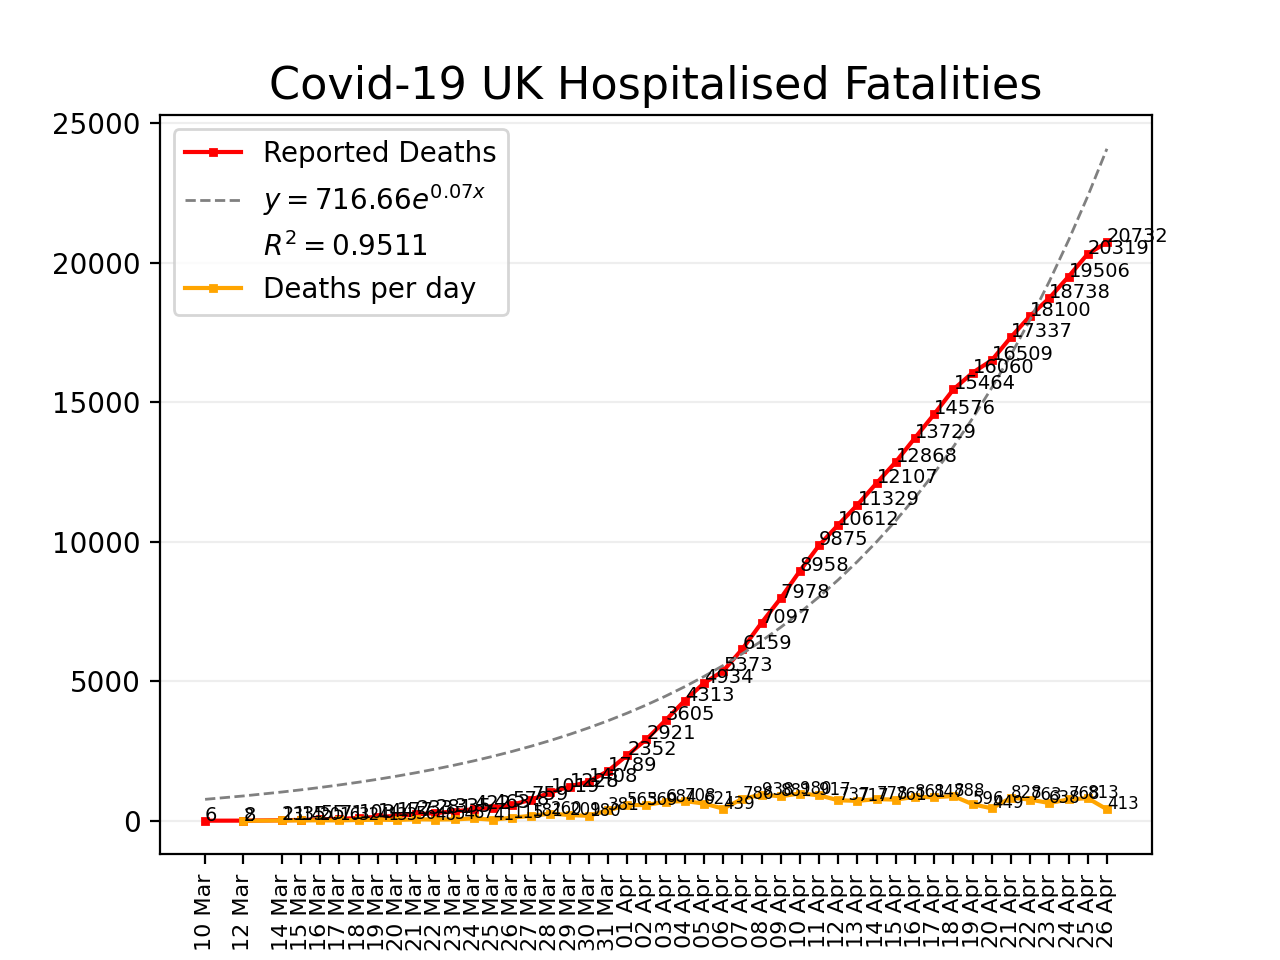
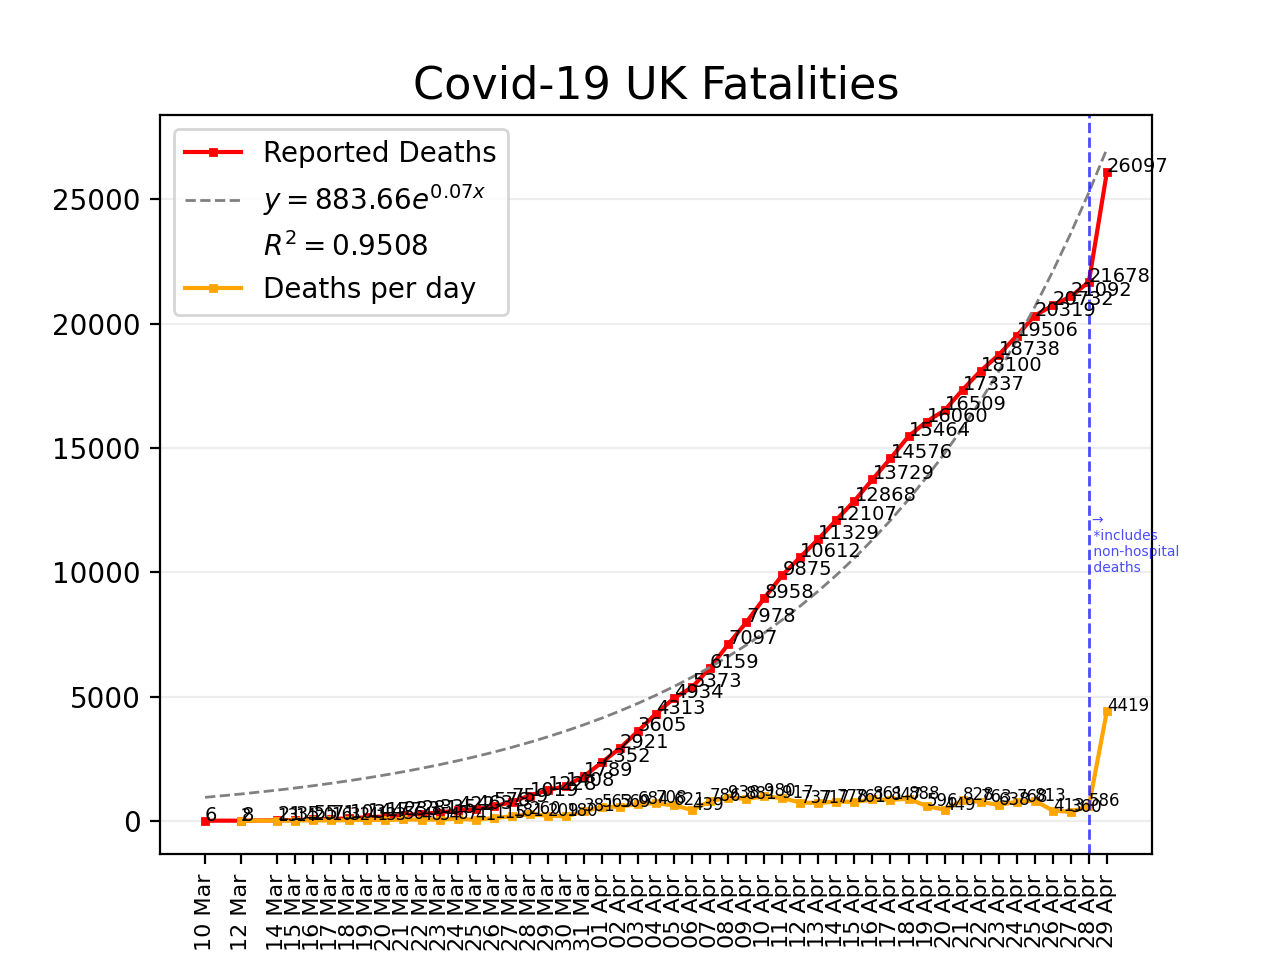
Adds data between 27 and 29 Apr
Updates graph to show information about non-hospital deaths

diff --git a/plot.py b/plot.py
@@ -9,7 +9,8 @@ y = np.array([
     281, 335, 422, 463, 578, 759, 1019, 1228, 1408, 1789,
     2352, 2921, 3605, 4313, 4934, 5373, 6159, 7097, 7978, 8958,
     9875, 10612, 11329, 12107, 12868, 13729, 14576, 15464, 16060,
-    16509, 17337, 18100, 18738, 19506, 20319, 20732
+    16509, 17337, 18100, 18738, 19506, 20319, 20732, 21092, 21678,
+    26097
 ])
 
 x = np.array([
@@ -18,7 +19,7 @@ x = np.array([
     13, 14, 15, 16, 17, 18, 19, 20, 21, 22,
     23, 24, 25, 26, 27, 28, 29, 30, 31, 32,
     33, 34, 35, 36, 37, 38, 39, 40, 41, 42,
-    43, 44, 45, 46, 47, 48
+    43, 44, 45, 46, 47, 48, 49, 50, 51,
 ])
 
 labels = [
@@ -30,7 +31,8 @@ labels = [
     '05 Apr', '06 Apr', '07 Apr', '08 Apr', '09 Apr', '10 Apr',
     '11 Apr', '12 Apr', '13 Apr', '14 Apr', '15 Apr', '16 Apr',
     '17 Apr', '18 Apr', '19 Apr', '20 Apr', '21 Apr', '22 Apr',
-    '23 Apr', '24 Apr', '25 Apr', '26 Apr'
+    '23 Apr', '24 Apr', '25 Apr', '26 Apr', '27 Apr', '28 Apr',
+    '29 Apr'
 ]
 
 x_diffs = x[1:]
@@ -68,7 +70,7 @@ r_squared = 1.0 - (ss_res / ss_tot)
 
 
 # Plot
-plt.title(f'Covid-19 UK Hospitalised Fatalities', fontsize=16)
+plt.title(f'Covid-19 UK Fatalities', fontsize=16)
 plt.plot(
     x, y,
     linestyle='-', label="Reported Deaths", marker='s',
@@ -102,6 +104,13 @@ for a, b in zip(x, y):
 
 for a, b in zip(x_diffs, diffs):
     plt.text(a, b, str(b), fontsize=6, color='black')
+
+ax = plt.gca()
+ax.axvline(x=50, alpha=0.7, color='blue', linestyle='--', linewidth=1)
+plt.text(
+    50, 10000, '$\\rightarrow$ \n *includes \n non-hospital \n deaths',
+    alpha=0.7, color='blue', fontsize=5
+)
 
 plt.grid(axis='y', which='major', color='#eeeeee', linestyle='-')
 plt.xticks(x, labels, rotation='vertical', fontsize='8')
